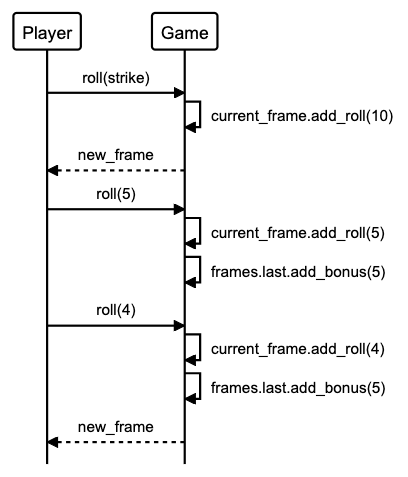
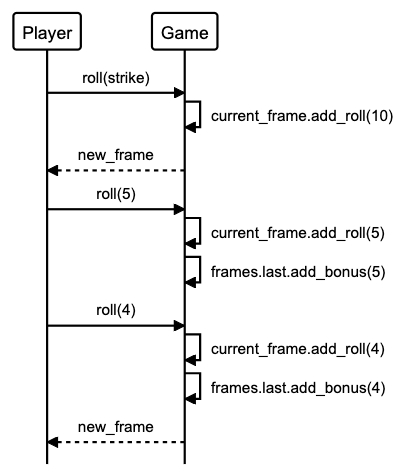
adds sequence diagrams for final frame

Changed region(s): [[0.0893, 0.0294, 0.9826, 0.9706], [0.0298, 0.0294, 0.2084, 0.1176]]

diff --git a/spec/game_spec.rb b/spec/game_spec.rb
@@ -70,14 +70,15 @@ describe Game do
       let(:strike2) { instance_double(Frame, :strike2, strike?: true, spare?: false, rolls: [10]) }
 
       it 'adds the next 2 rolls to the bonus' do
-        expect(strike1).to receive(:add_bonus).twice.with(5)
+        expect(strike1).to receive(:add_bonus).once.with(5)
+        expect(strike1).to receive(:add_bonus).once.with(3)
         subject.frames << strike1
 
         allow(frame).to receive(:rolls).and_return([5])
         subject.add_roll(5)
 
-        allow(frame).to receive(:rolls).and_return([5, 5])
-        subject.add_roll(5)
+        allow(frame).to receive(:rolls).and_return([5, 3])
+        subject.add_roll(3)
       end
 
       context 'player gets 3 strikes in a row' do

diff --git a/sequence_diagram_models.md b/sequence_diagram_models.md
@@ -42,6 +42,58 @@ g->g: "current_frame.add_roll(5)"
 g->g: "frames.last.add_bonus(5)"
 p->g: "roll(4)"
 g->g: "current_frame.add_roll(4)"
-g->g: "frames.last.add_bonus(5)"
+g->g: "frames.last.add_bonus(4)"
 g-->p: "new_frame"
+```
+
+## Final frame - 2 strikes
+```flow
+alias p = "Player"
+alias g = "Game"
+alias f = "Frame"
+
+p->g: "roll(strike)"
+g->g: "current_frame.add_roll(10)"
+g->g: "last_frame? --> true"
+p->g: "roll(strike)"
+g->g: "current_frame.add_roll(10)"
+g->g: "last_frame? --> true"
+p->g: "roll(5)"
+g->g: "current_frame.add_roll(5)"
+g->g: "frames << current_frame"
+g->g: "game_over? --> true"
+g-->p: "scores"
+```
+
+## Final frame - spare
+```flow
+alias p = "Player"
+alias g = "Game"
+alias f = "Frame"
+
+p->g: "roll(7)"
+g->g: "current_frame.add_roll(7)"
+p->g: "roll(3)"
+g->g: "current_frame.add_roll(3)"
+g->g: "last_frame? --> true"
+p->g: "roll(5)"
+g->g: "current_frame.add_roll(5)"
+g->g: "frames << current_frame"
+g->g: "game_over? --> true"
+g-->p: "scores"
+```
+
+## 2 roll final frame
+```flow
+alias p = "Player"
+alias g = "Game"
+alias f = "Frame"
+
+p->g: "roll(6)"
+g->g: "current_frame.add_roll(6)"
+p->g: "roll(2)"
+g->g: "current_frame.add_roll(2)"
+g->g: "frames << current_frame"
+g->g: "game_over? --> true"
+g-->p: "scores"
 ```

diff --git a/README.md b/README.md
@@ -94,6 +94,18 @@ Strike bonus
 
 ![strike bonus](images/strike-bonus.png)
 
+2 strike final frame
+
+![2 strike final frame](images/2-strike-final-frame.png)
+
+Final frame spare
+
+![Final frame spare](images/final-frame-spare.png)
+
+2 roll final frame
+
+![2 roll final frame](images/2-roll-final-frame.png)
+
 ----
 
 ## Rules
@@ -129,3 +141,11 @@ Strike bonus
 
 ### Edge cases
 - player can't input values equalling > 10 over 2 rolls of a frame
+- perfect game:
+  - final 3 frames scoring table:
+
+total score | frame | frame roll | frame bonus | frame score
+------------|-------|------------|-------------|-------------
+240         | 8     | 10         | 20          | 30
+270         | 9     | 10         | 20          | 30
+300         | 10    | 10 * 3     | n/a         | 30
